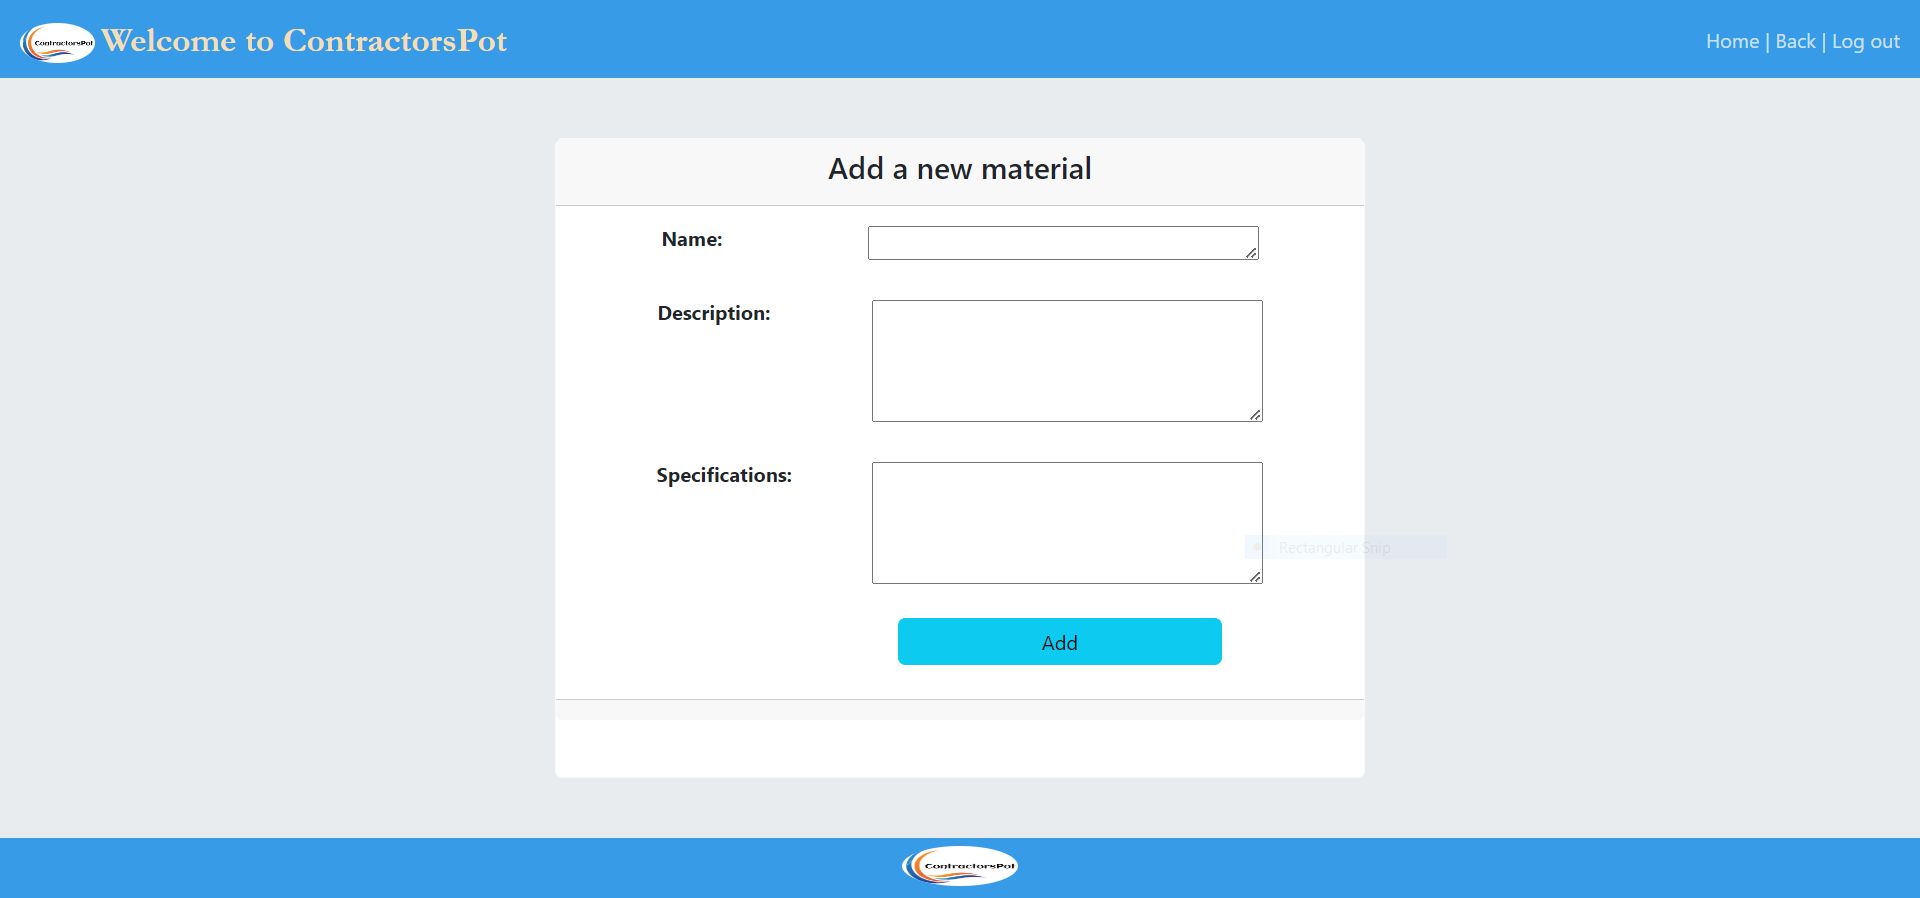
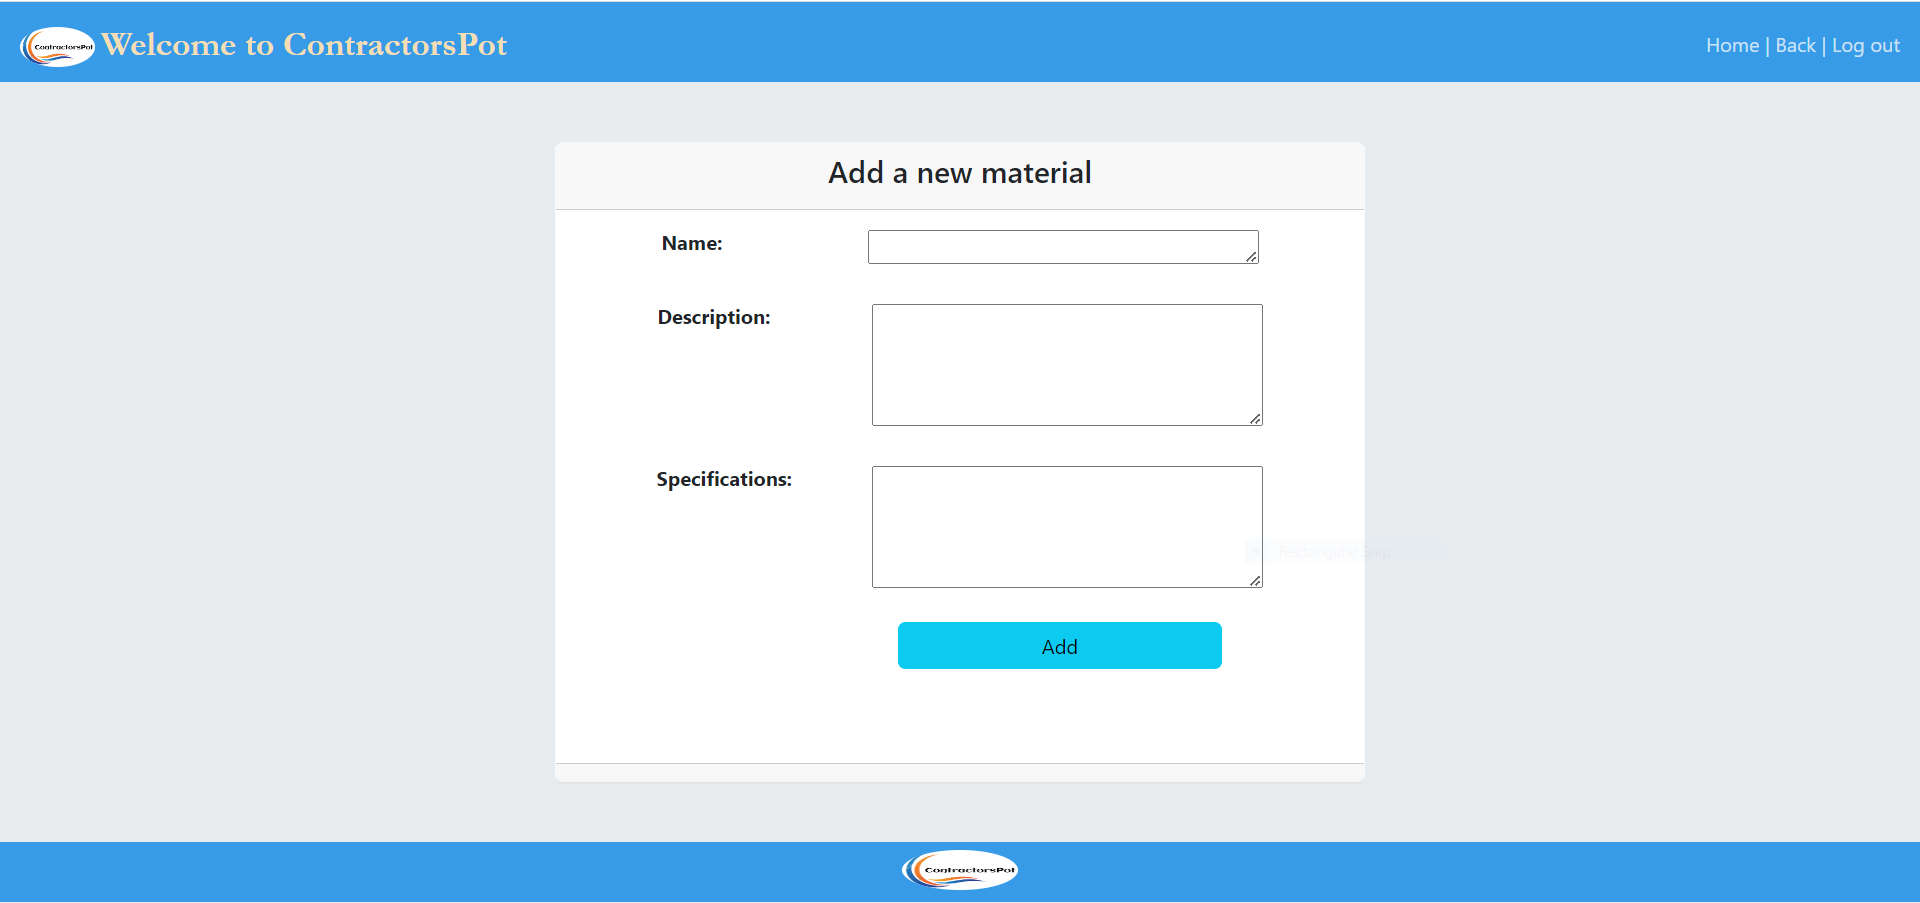
edit add template

diff --git a/app1/templates/add.html b/app1/templates/add.html
@@ -42,7 +42,7 @@
                 <div>
                     <input type="submit" value="Add" class=" mybtn2 btn btn-info btn-md ">
                 </div>
-                <div class="card-footer text-body-secondary">
+                <div class="card-footer text-body-secondary mt-5">
                 </div>
                 
             </form>
